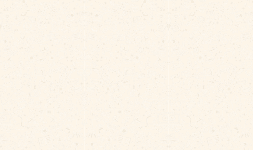
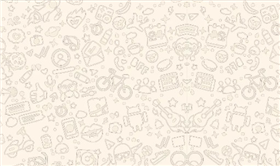
style: fondo chat con wallpaper WA en mosaico pequeño

diff --git a/src/index.css b/src/index.css
@@ -319,9 +319,10 @@ html[data-ahorro='1'] .trazo-marca { background: #f59e0b; }
 
 .chat-wa-fondo {
   background-color: var(--wa-fondo);
-  background-image: url('/chat/wa-doodle-light.svg');
+  /* Azulejo pequeño repetido (como WhatsApp), no la imagen estirada */
+  background-image: url('/chat/wa-wallpaper-light.png');
   background-repeat: repeat;
-  background-size: 420px 420px;
+  background-size: 220px 130px;
 }
 
 .chat-wa-burbuja {
@@ -633,7 +634,7 @@ html[data-ahorro='1'].dark .chat-wa {
 }
 
 .dark .chat-wa-fondo {
-  background-image: url('/chat/wa-doodle-dark.svg');
+  background-image: url('/chat/wa-wallpaper-dark.png');
 }
 
 /* Editor de flujos */
